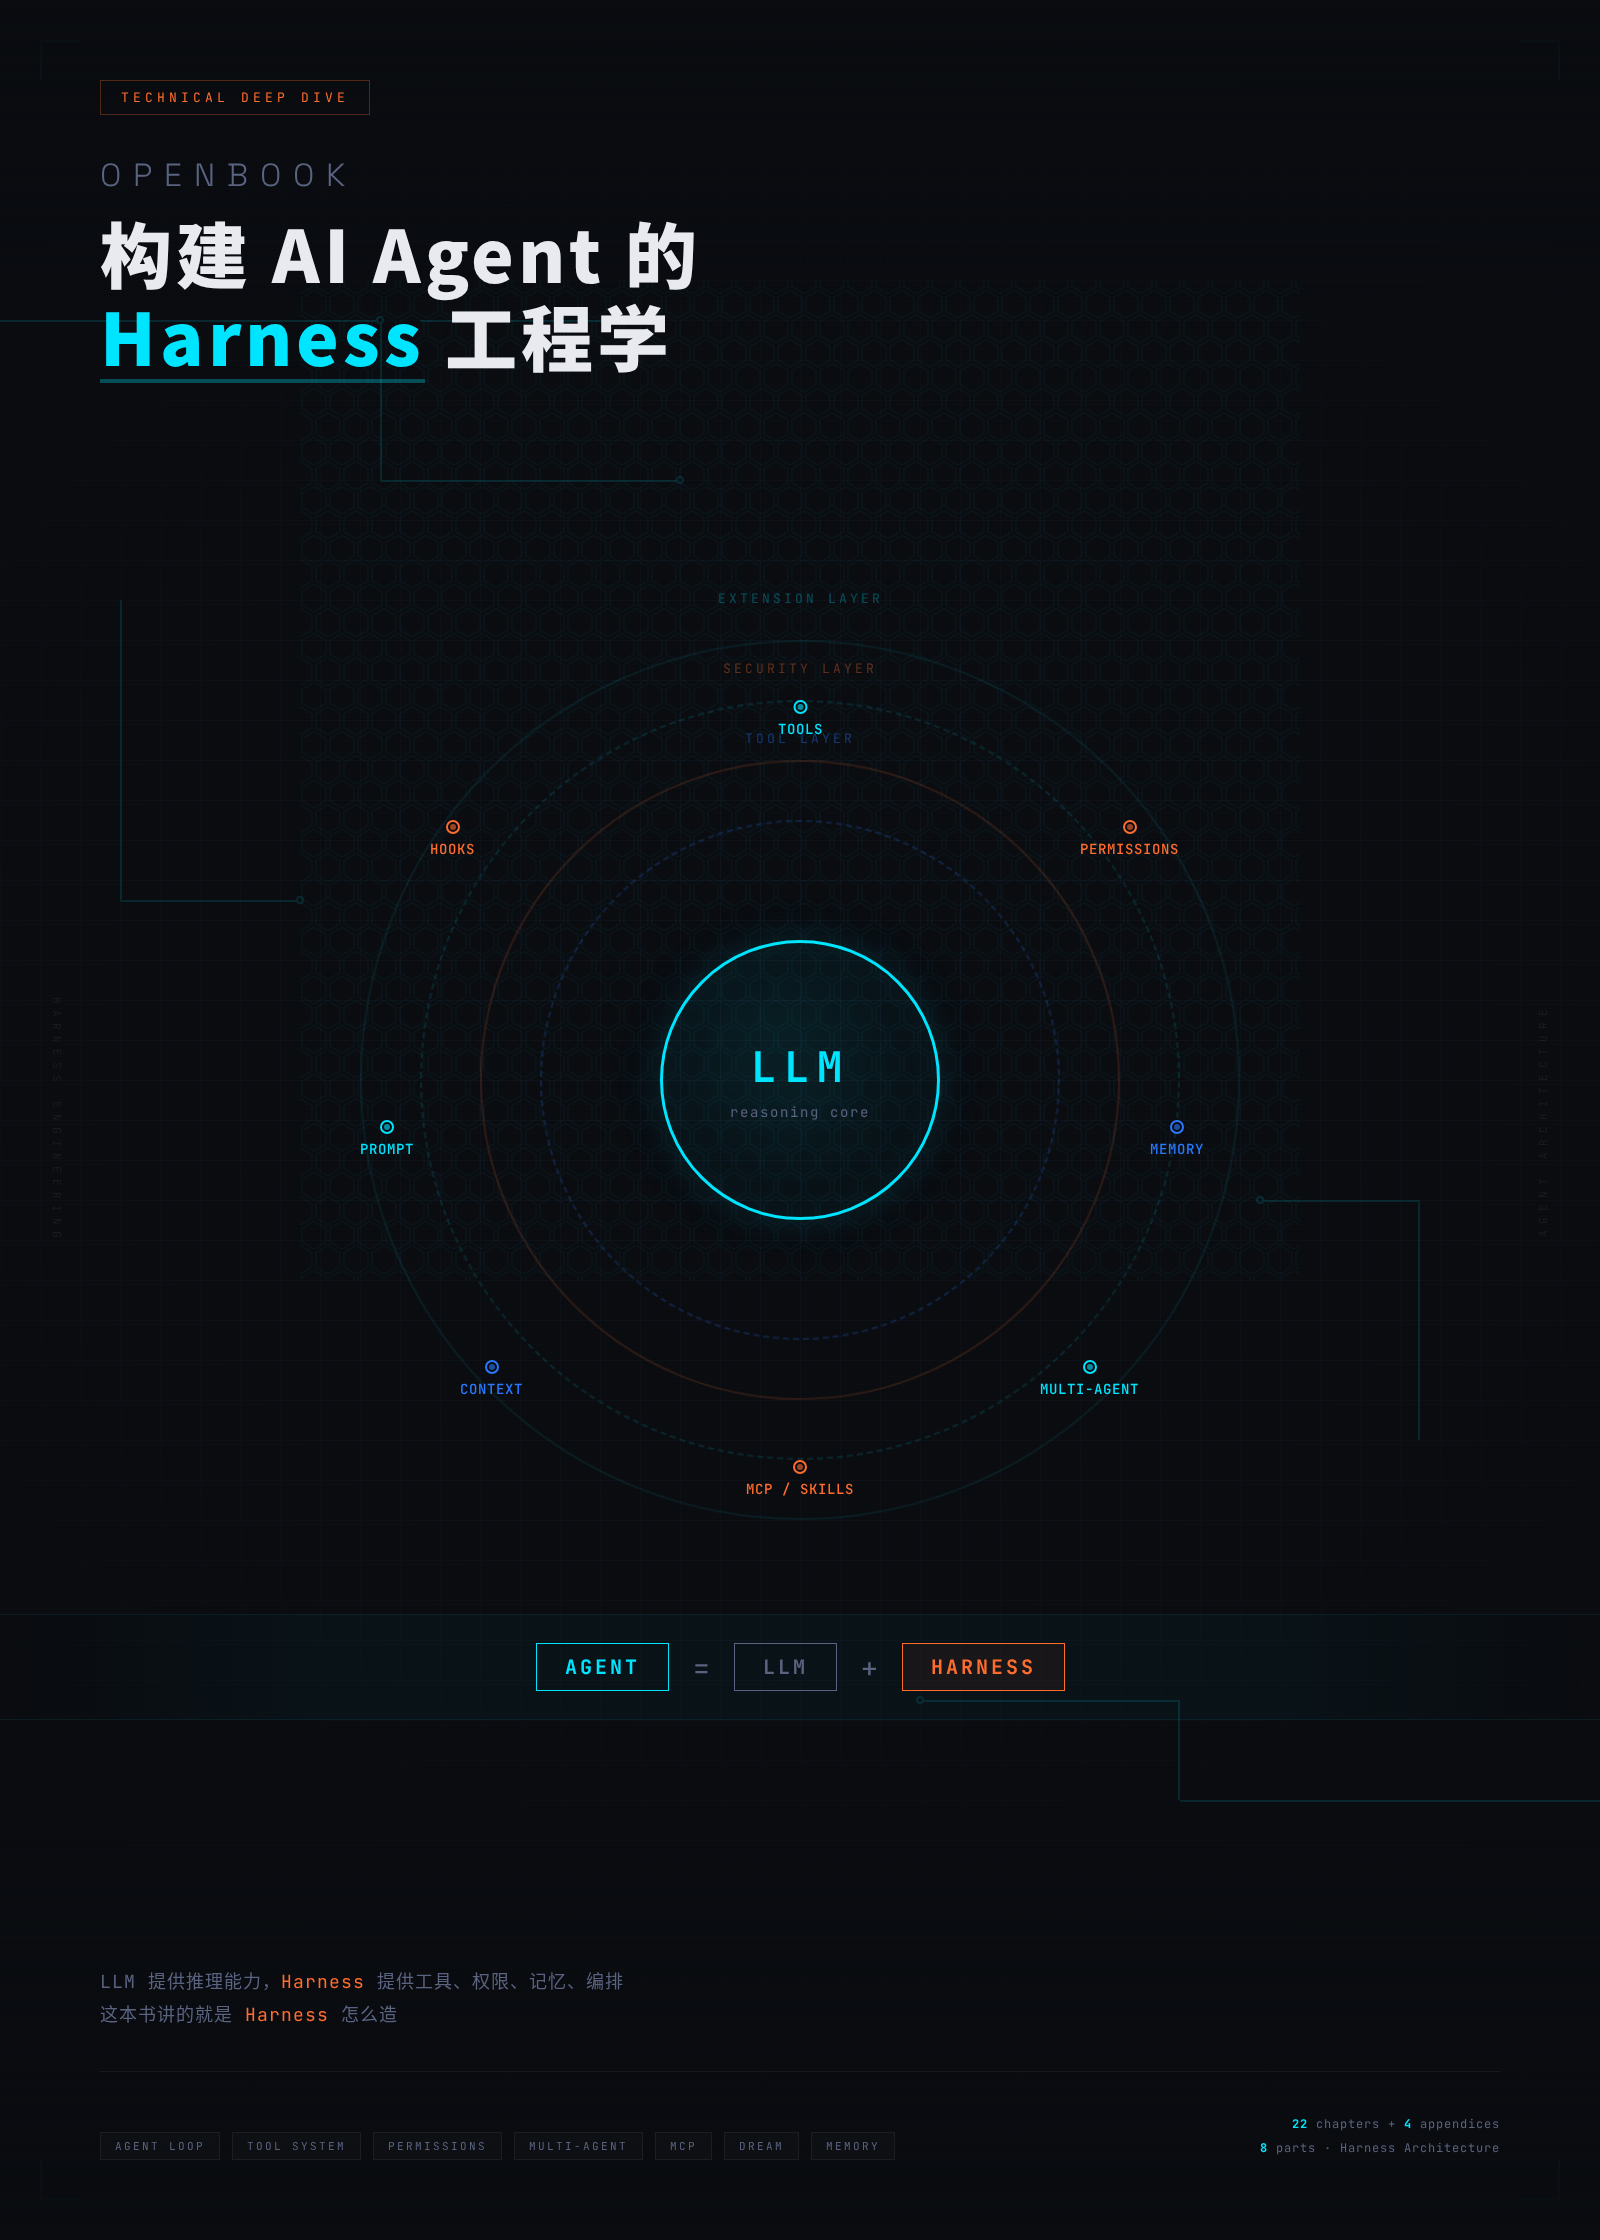
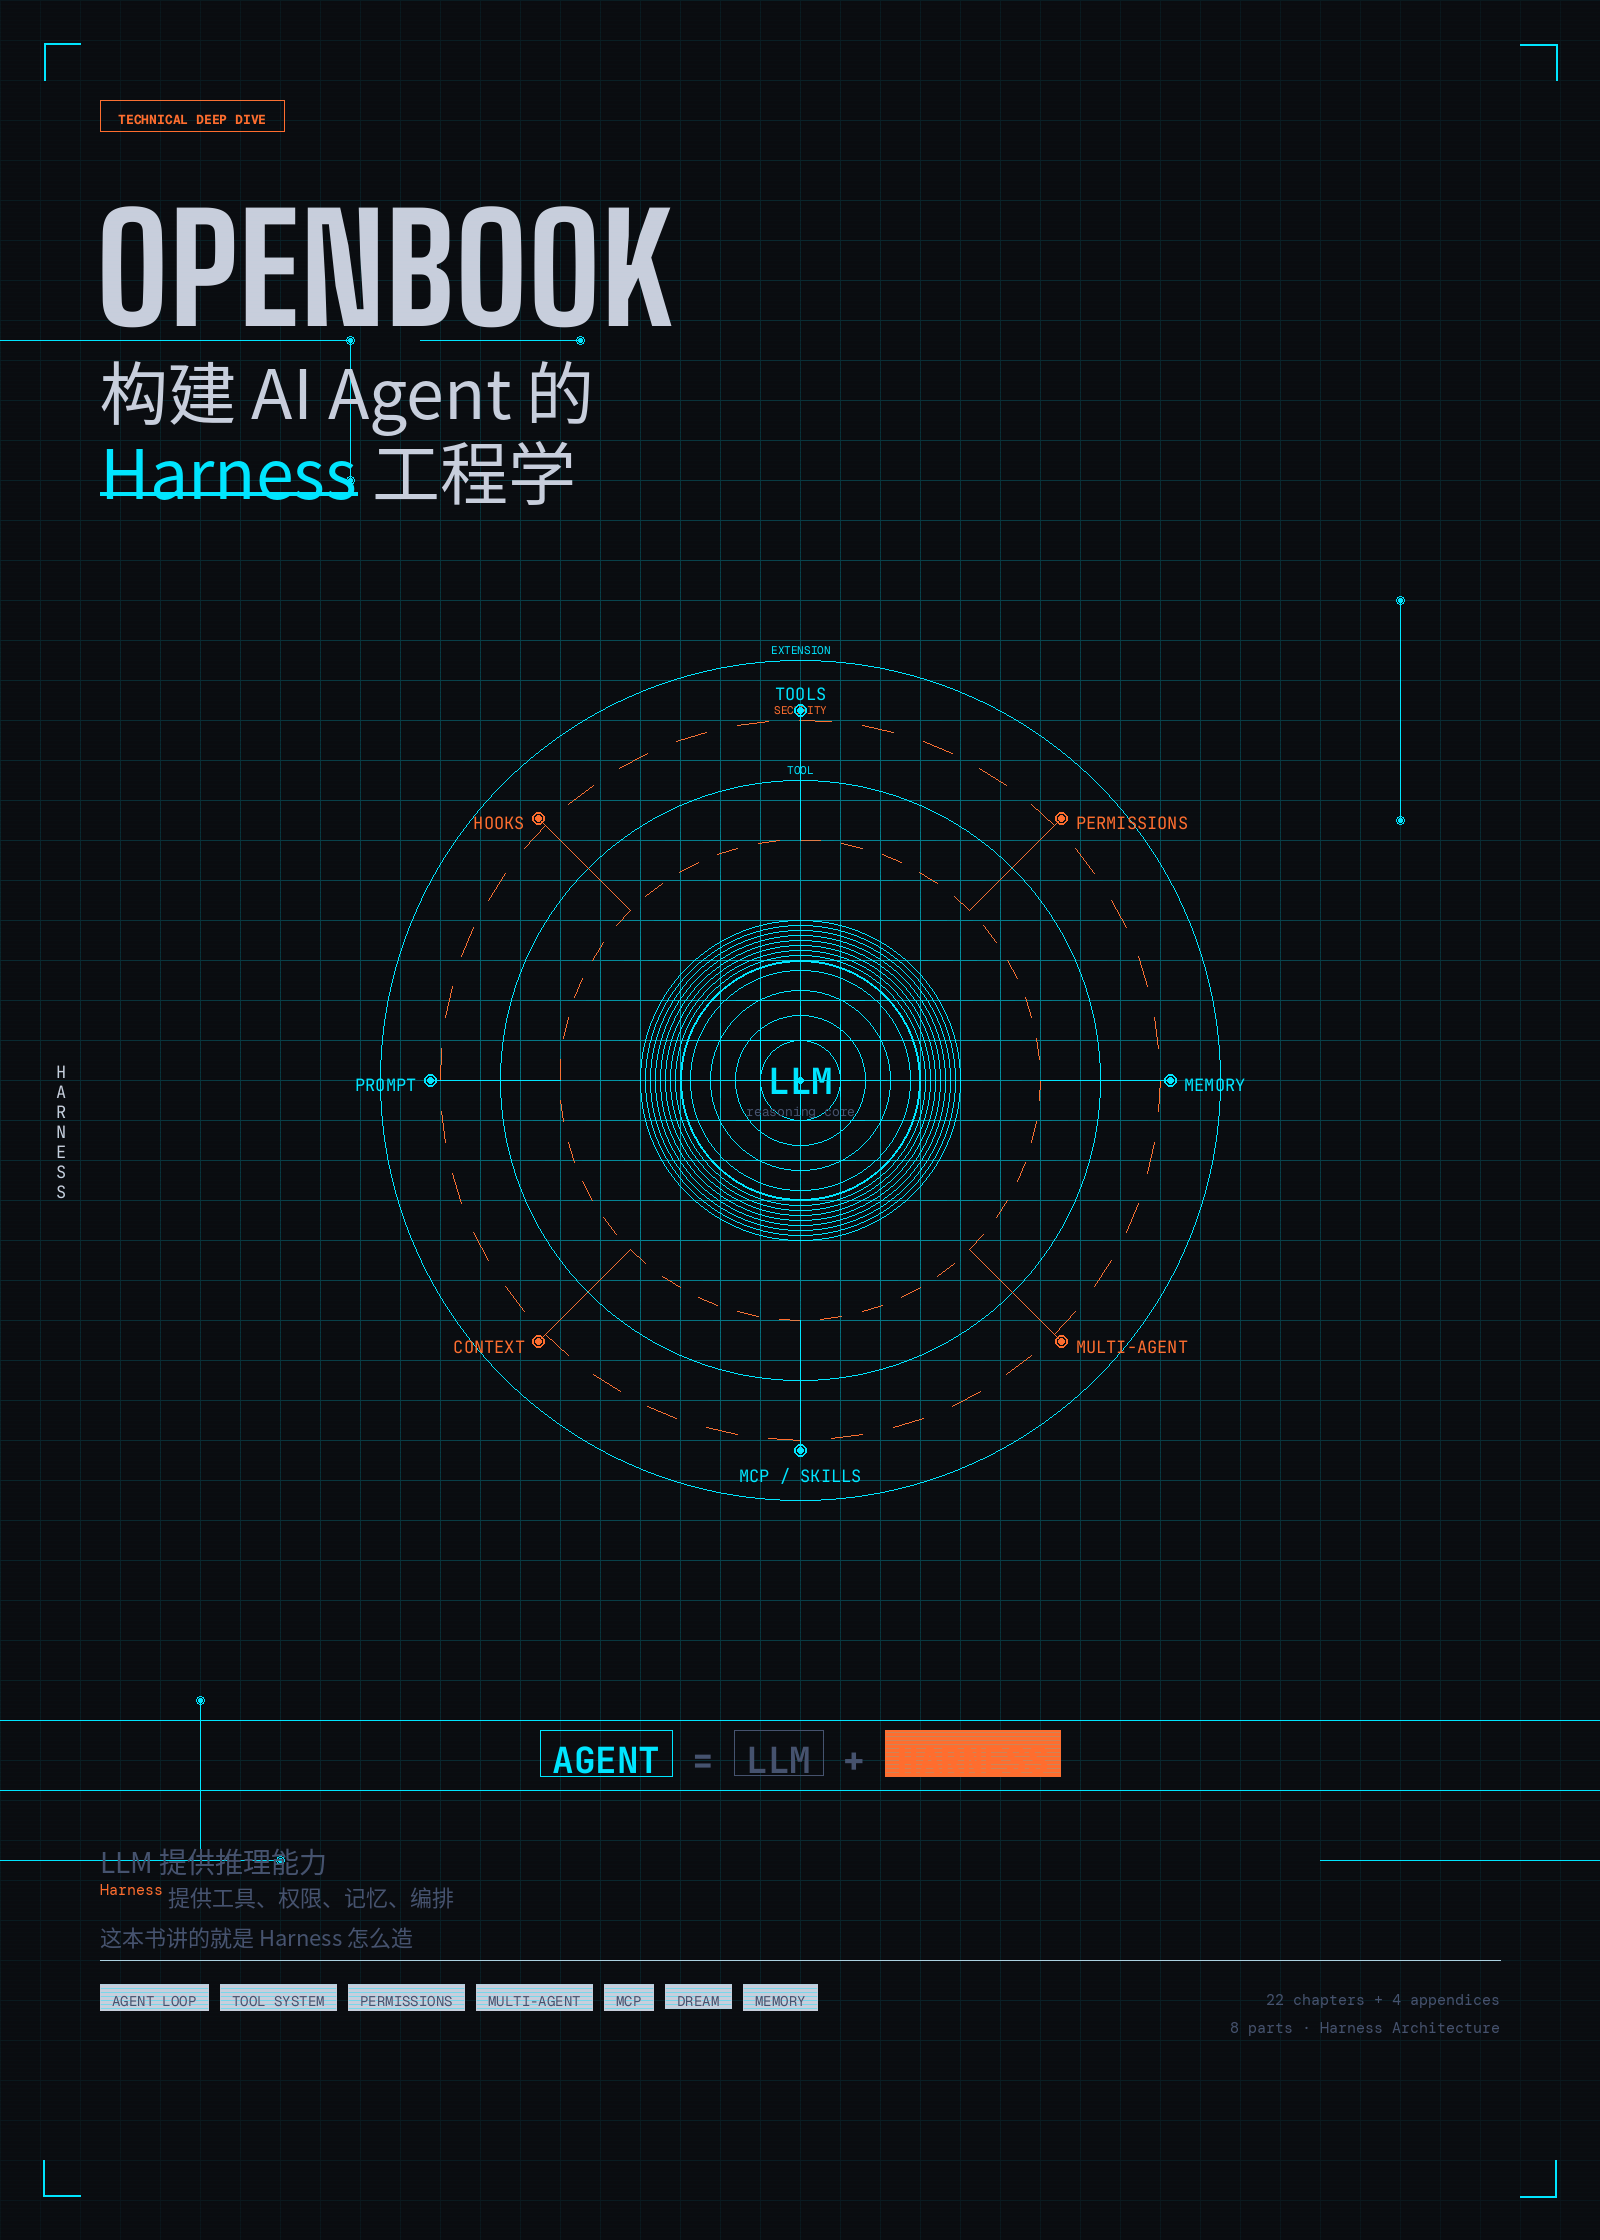
Redesign cover: Neural Cartography aesthetic, precision rings

diff --git a/cover-philosophy.md b/cover-philosophy.md
@@ -1,0 +1,15 @@
+# Neural Cartography
+
+A design philosophy for mapping invisible architectures — the unseen scaffolding that transforms raw intelligence into purposeful action.
+
+## The Philosophy
+
+Neural Cartography draws its language from the intersection of anatomical illustration and satellite imagery — the beauty found in systems observed from precisely the wrong distance, where individual components dissolve into emergent patterns. It treats engineering architecture the way Renaissance anatomists treated the human body: with reverence, precision, and an artist's eye for the sublime in the systematic. Every line placed with the deliberation of a master draftsman; every negative space as intentional as the marks themselves. The work must appear as though someone spent months with a rotring pen and a steady hand.
+
+Color operates as atmosphere, not decoration. A dominant void — near-black, the color of deep space or an unlit laboratory — creates the stage. Against this darkness, two chromatic voices speak: one cold and electric (the frequency of machine intelligence), one warm and urgent (the frequency of constraint and boundary). These colors never blend into gradients or glow effects. They appear as precise marks — thin lines, small nodes, geometric borders — creating the impression of a technical diagram pulled from a future textbook. The palette is ruthlessly limited: three colors, no more, deployed with the confidence of someone who has eliminated every unnecessary variable. This chromatic discipline is the product of painstaking calibration.
+
+Typography exists as specimen, not message. Letters are artifacts placed into the composition the way a naturalist pins specimens to a board — with care, with intent, with the understanding that their form communicates before their meaning does. Large type is architectural: it occupies space, creates gravity, defines regions. Small type is clinical: it labels, it annotates, it whispers coordinates. The two scales never meet in the middle. This extreme contrast — monumental and microscopic — creates the visual tension of something simultaneously intimate and vast. Every kerning decision, every baseline alignment reflects countless hours of meticulous refinement by someone at the absolute peak of their craft.
+
+Composition follows the logic of orbital mechanics. A central mass exerts gravitational pull. Concentric structures orbit at measured distances. Satellite elements maintain precise spacing — never touching, never drifting, held in equilibrium by invisible forces. The negative space between elements is as carefully engineered as the elements themselves. Nothing floats randomly; everything occupies its calculated position in the system. This spatial precision must look as though it emerged from obsessive, painstaking labor — the kind of work that reveals new details on every viewing.
+
+Pattern and repetition serve as evidence of underlying order. Thin parallel lines suggest data flow. Small repeated nodes suggest distributed processing. Geometric subdivisions suggest layered architecture. These patterns are never decorative — they are diagrammatic, suggesting that what we see is a fragment of a much larger system extending beyond the canvas in every direction. The result should feel like an artifact recovered from a civilization that mapped intelligence the way we map coastlines: meticulously, beautifully, with the patient dedication of master cartographers.
